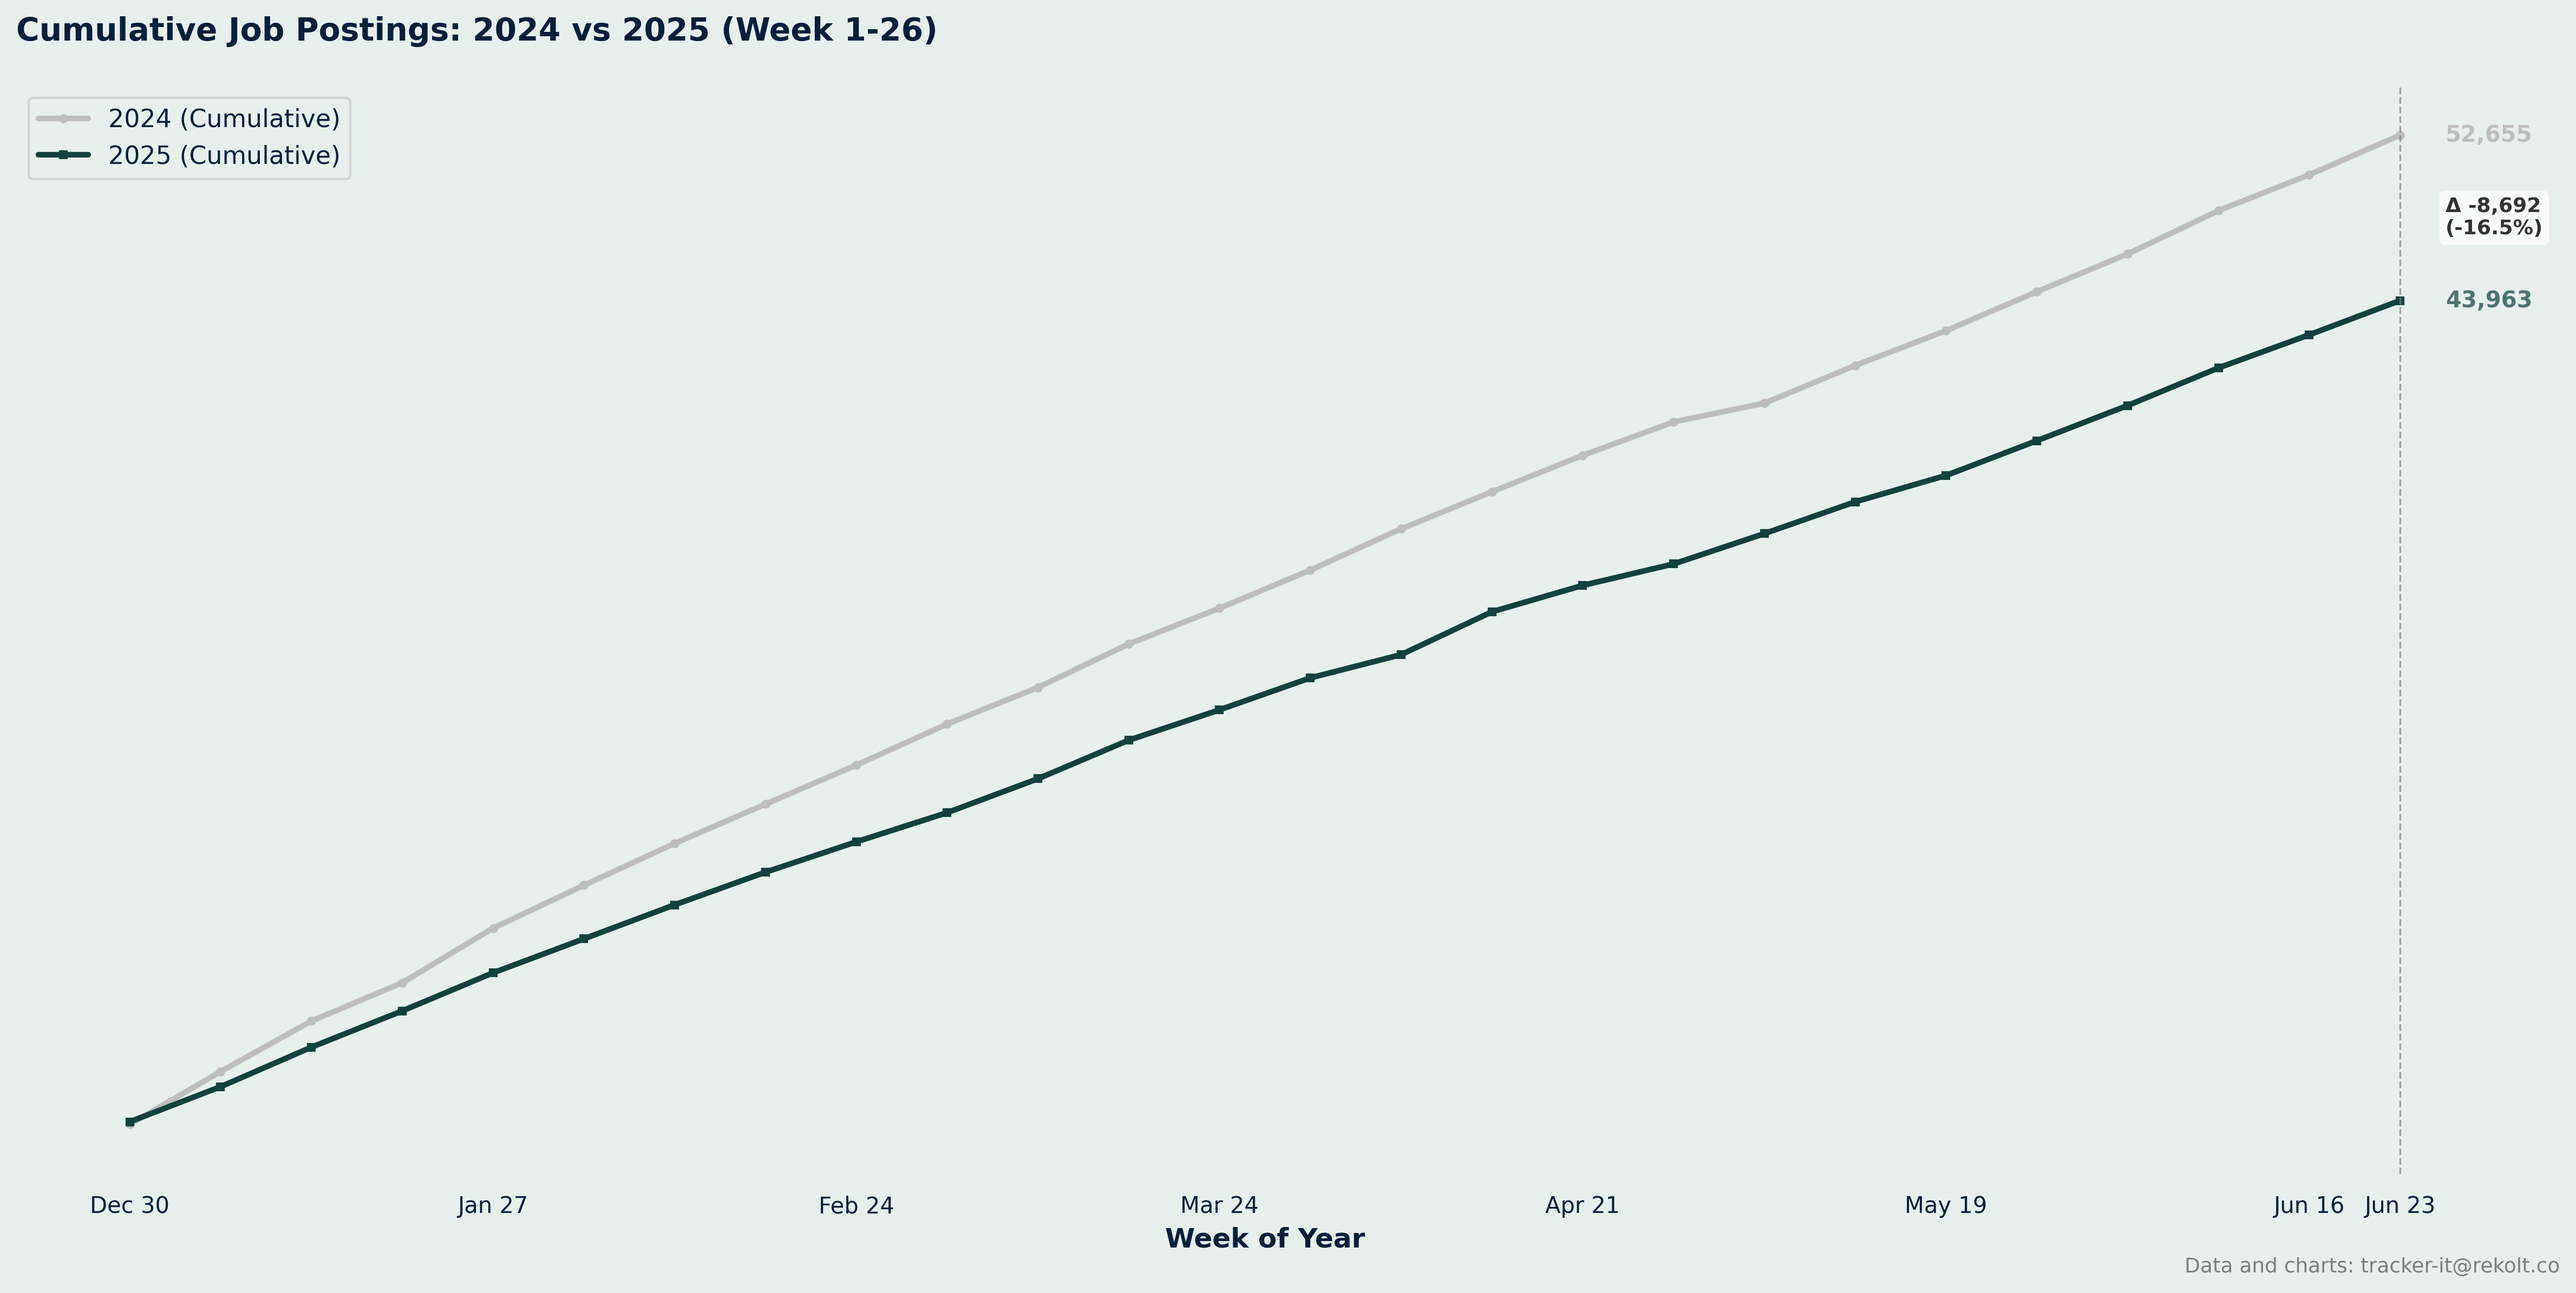
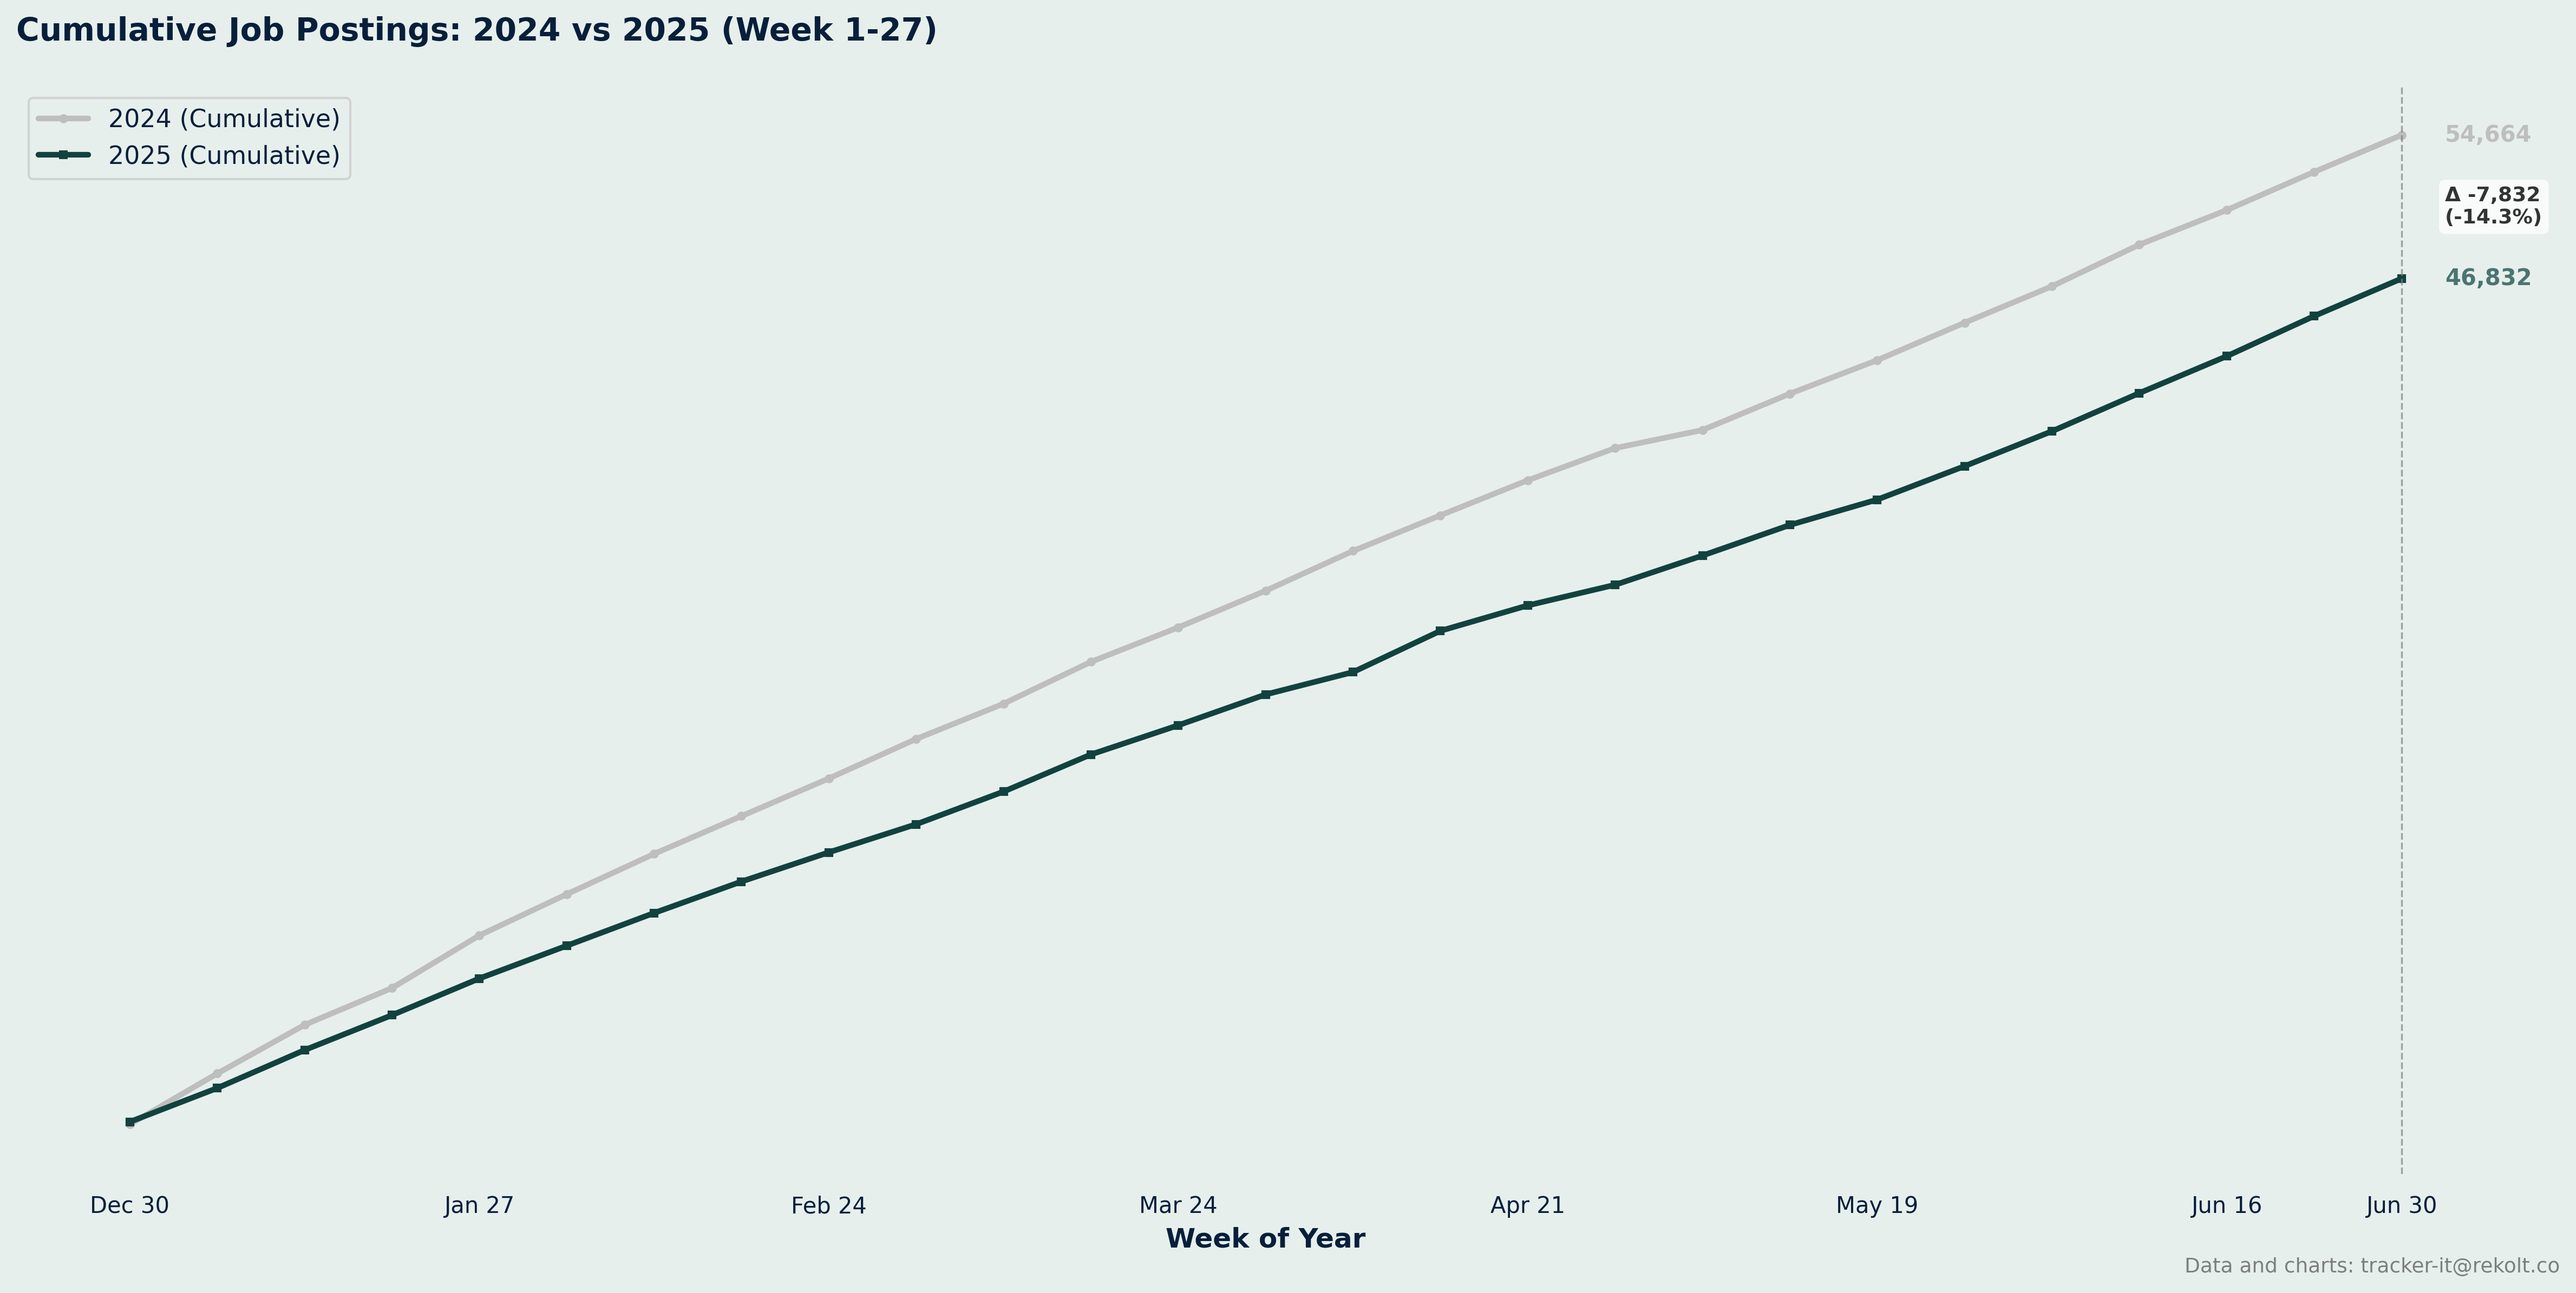
added weeks 0623 and 0707

diff --git a/tracker/20250707_tracker.md b/tracker/20250707_tracker.md
@@ -1,0 +1,132 @@
+---
+layout: page
+title: "Freelance Tracker"
+permalink: "tracker-2025-07-07/"
+comments: true
+---
+## Weekly Job Postings Summary
+
+Every week, we deliver a comprehensive analysis of the French IT freelance landscape.
+
+This report includes insights on job postings, remote work trends, salary analysis, and more.
+* We maintain a backlog of analysis ideas. Send yours to tracker-it@rekolt.co.
+* Join our [telegram channel](https://t.me/+3y9PJaF335UxYTg0) for weekly updates and for occasional REKOLT project briefs and mission descriptions.
+
+### report for week starting July 07, 2025
+
+
+
+### Weekly Vs Last Year Summary
+
+```markdown
+
+📈 Comparison Summary
+2025: 27 weeks, 47907 total jobs, avg 1774 jobs/week
+2024: 27 weeks, 55851 total jobs, avg 2069 jobs/week
+
+```
+
+![Weekly Vs Last Year Chart](figs/20250707_weekly_job_postings_comparison.png)
+
+### Ytd Cumlated Summary
+
+```markdown
+
+📈 Year-over-Year Comparison (Week 28):
+2024: 55851 cumulative jobs
+2025: 47907 cumulative jobs
+Growth: -14.2%
+
+```
+
+![Ytd Cumlated Chart](figs/20250707_cumulative_job_postings_comparison.png)
+
+### Month On Month Vs Last Year Summary
+
+```markdown
+
+📊 Monthly Job Postings Summary:
+Jan: 2024=9877, 2025=8438
+Feb: 2024=9128, 2025=6873
+Mar: 2024=8794, 2025=7316
+Apr: 2024=8896, 2025=7012
+May: 2024=7629, 2025=6771
+Jun: 2024=8331, 2025=8521
+Jul: 2024=8036, 2025=3626
+Aug: 2024=5865, 2025=  0
+Sep: 2024=8401, 2025=  0
+Oct: 2024=8972, 2025=  0
+Nov: 2024=7019, 2025=  0
+Dec: 2024=6013, 2025=  0
+
+```
+
+![Month On Month Vs Last Year Chart](figs/20250707_monthly_job_postings_comparison.png)
+
+### Remote Vs Onsite Percentage Summary
+
+```markdown
+
+📊 Remote vs Onsite Job Postings Percentage Summary:
+2024: 5200 total jobs
+	 Remote: 116 per week
+		 percentage: 2.2%
+	 Partial: 3500 per week
+		 percentage: 67.3%
+2025: 2700 total jobs
+	 Remote: 72 per week
+		 percentage: 2.7%
+	 Partial: 1919 per week
+		 percentage: 71.1%
+
+```
+
+![Remote Vs Onsite Percentage Chart](figs/20250707_remote_vs_onsite_percentage_comparison.png)
+
+### Experience Level Summary
+
+```markdown
+ Monthly Job Postings by Experience Level Summary:
+2024:
+	 Junior: 15320 jobs
+		 percentage: 9.0%
+	 Intermediate: 56887 jobs
+		 percentage: 33.4%
+	 Senior: 80721 jobs
+		 percentage: 47.4%
+	 Expert: 17196 jobs
+		 percentage: 10.1%
+2025:
+	 Junior: 15320 jobs
+		 percentage: 9.0%
+	 Intermediate: 56887 jobs
+		 percentage: 33.4%
+	 Senior: 80721 jobs
+		 percentage: 47.4%
+	 Expert: 17196 jobs
+		 percentage: 10.1%
+
+```
+
+![Experience Level Monthly Chart](figs/20250707_experience_level_monthly_comparison.png)
+
+### Annual Salary Summary
+
+```markdown
+ Annual Salary Summary:
+2023:
+	 Average min salary: 428 (min: 100, max: 950)
+	 Average max salary: 543 (min: 180, max: 1760)
+
+2024:
+	 Average min salary: 434 (min: 100, max: 3000)
+	 Average max salary: 560 (min: 100, max: 3000)
+
+2025:
+	 Average min salary: 420 (min: 100, max: 3000)
+	 Average max salary: 566 (min: 100, max: 3000)
+
+```
+
+![Annual Salary Chart](figs/20250707_salary_analysis_rolling_avg.png)
+

diff --git a/tracker/20250630_tracker.md b/tracker/20250630_tracker.md
@@ -1,0 +1,132 @@
+---
+layout: page
+title: "Freelance Tracker"
+permalink: "tracker-20250630"
+comments: true
+---
+## Weekly Job Postings Summary
+
+Every week, we deliver a comprehensive analysis of the French IT freelance landscape.
+
+This report includes insights on job postings, remote work trends, salary analysis, and more.
+* We maintain a backlog of analysis ideas. Send yours to tracker-it@rekolt.co.
+* Join our [telegram channel](https://t.me/+3y9PJaF335UxYTg0) for weekly updates and for occasional REKOLT project briefs and mission descriptions.
+
+### report for week starting June 30, 2025
+
+
+
+### Weekly Vs Last Year Summary
+
+```markdown
+
+📈 Comparison Summary
+2025: 26 weeks, 43963 total jobs, avg 1691 jobs/week
+2024: 26 weeks, 52655 total jobs, avg 2025 jobs/week
+
+```
+
+![Weekly Vs Last Year Chart](figs/20250623_weekly_job_postings_comparison.png)
+
+### Ytd Cumlated Summary
+
+```markdown
+
+📈 Year-over-Year Comparison (Week 26):
+2024: 52655 cumulative jobs
+2025: 43963 cumulative jobs
+Growth: -16.5%
+
+```
+
+![Ytd Cumlated Chart](figs/20250623_cumulative_job_postings_comparison.png)
+
+### Month On Month Vs Last Year Summary
+
+```markdown
+
+📊 Monthly Job Postings Summary:
+Jan: 2024=9877, 2025=8438
+Feb: 2024=9128, 2025=6873
+Mar: 2024=8794, 2025=7316
+Apr: 2024=8896, 2025=7012
+May: 2024=7629, 2025=6771
+Jun: 2024=8331, 2025=7420
+Jul: 2024=8036, 2025=  0
+Aug: 2024=5865, 2025=  0
+Sep: 2024=8401, 2025=  0
+Oct: 2024=8972, 2025=  0
+Nov: 2024=7019, 2025=  0
+Dec: 2024=6013, 2025=  0
+
+```
+
+![Month On Month Vs Last Year Chart](figs/20250623_monthly_job_postings_comparison.png)
+
+### Remote Vs Onsite Percentage Summary
+
+```markdown
+
+📊 Remote vs Onsite Job Postings Percentage Summary:
+2024: 5200 total jobs
+	 Remote: 116 per week
+		 percentage: 2.2%
+	 Partial: 3500 per week
+		 percentage: 67.3%
+2025: 2600 total jobs
+	 Remote: 70 per week
+		 percentage: 2.7%
+	 Partial: 1878 per week
+		 percentage: 72.2%
+
+```
+
+![Remote Vs Onsite Percentage Chart](figs/20250623_remote_vs_onsite_percentage_comparison.png)
+
+### Experience Level Summary
+
+```markdown
+ Monthly Job Postings by Experience Level Summary:
+2024:
+	 Junior: 15053 jobs
+		 percentage: 9.0%
+	 Intermediate: 55686 jobs
+		 percentage: 33.4%
+	 Senior: 79092 jobs
+		 percentage: 47.5%
+	 Expert: 16681 jobs
+		 percentage: 10.0%
+2025:
+	 Junior: 15053 jobs
+		 percentage: 9.0%
+	 Intermediate: 55686 jobs
+		 percentage: 33.4%
+	 Senior: 79092 jobs
+		 percentage: 47.5%
+	 Expert: 16681 jobs
+		 percentage: 10.0%
+
+```
+
+![Experience Level Monthly Chart](figs/20250623_experience_level_monthly_comparison.png)
+
+### Annual Salary Summary
+
+```markdown
+ Annual Salary Summary:
+2023:
+	 Average min salary: 428 (min: 100, max: 950)
+	 Average max salary: 543 (min: 180, max: 1760)
+
+2024:
+	 Average min salary: 434 (min: 100, max: 3000)
+	 Average max salary: 560 (min: 100, max: 3000)
+
+2025:
+	 Average min salary: 420 (min: 100, max: 3000)
+	 Average max salary: 567 (min: 100, max: 3000)
+
+```
+
+![Annual Salary Chart](figs/20250623_salary_analysis_rolling_avg.png)
+
